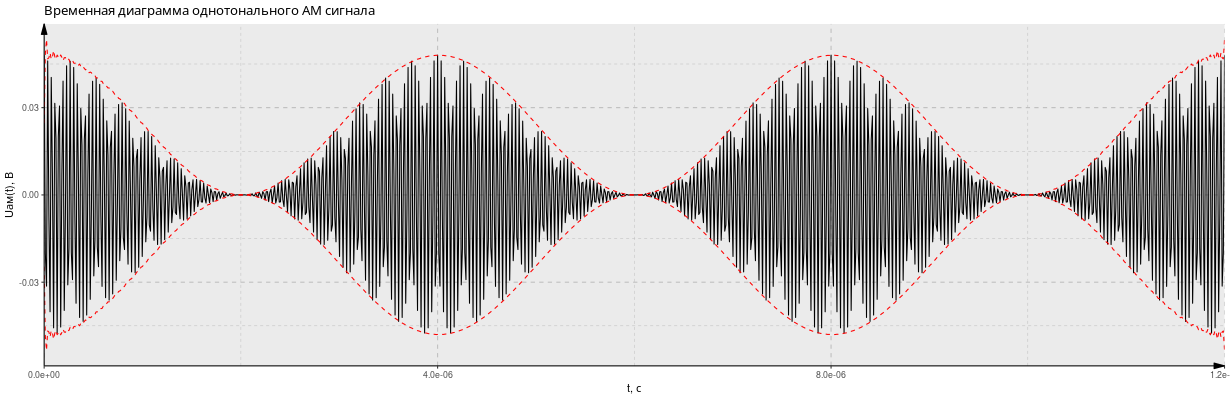
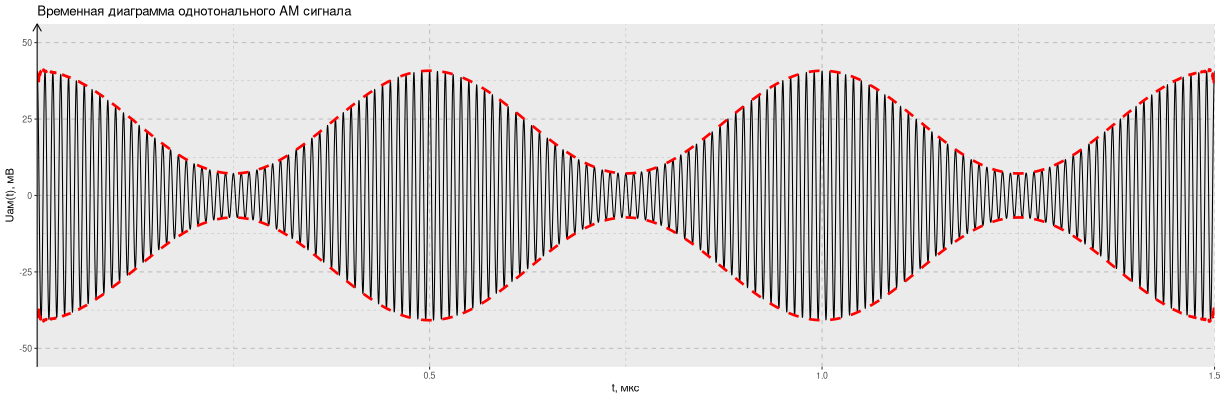
Улучшение рендеринга графика

diff --git a/test.py b/test.py
@@ -1,0 +1,17 @@
+import matplotlib.pyplot as plt
+import numpy as np
+
+u0 = 0.024  # амплитуда сигнала в В
+f0 = 140e6  # несущая частота сигнала в Гц
+m1 = 1  # коэффициент модуляции
+fm1 = 240e3  # частота модуляции в Гц
+
+x = np.linspace(0, 3/fm1, 1000)  # временная ось от 0 до 1 секунды
+y = u0 * np.cos(2 * np.pi * f0 * x) + (0.5 * m1 * u0) * np.cos(2 * np.pi * (f0 + fm1) * x) + (0.5 * m1 * u0) * np.cos(2 * np.pi * (f0 - fm1) * x)
+
+plt.plot(x, y)
+plt.xlabel('Время (сек)')
+plt.ylabel('Амплитуда сигнала (В)')
+plt.title('График амплитудно-модулированного сигнала')
+plt.grid(True)
+plt.show()
